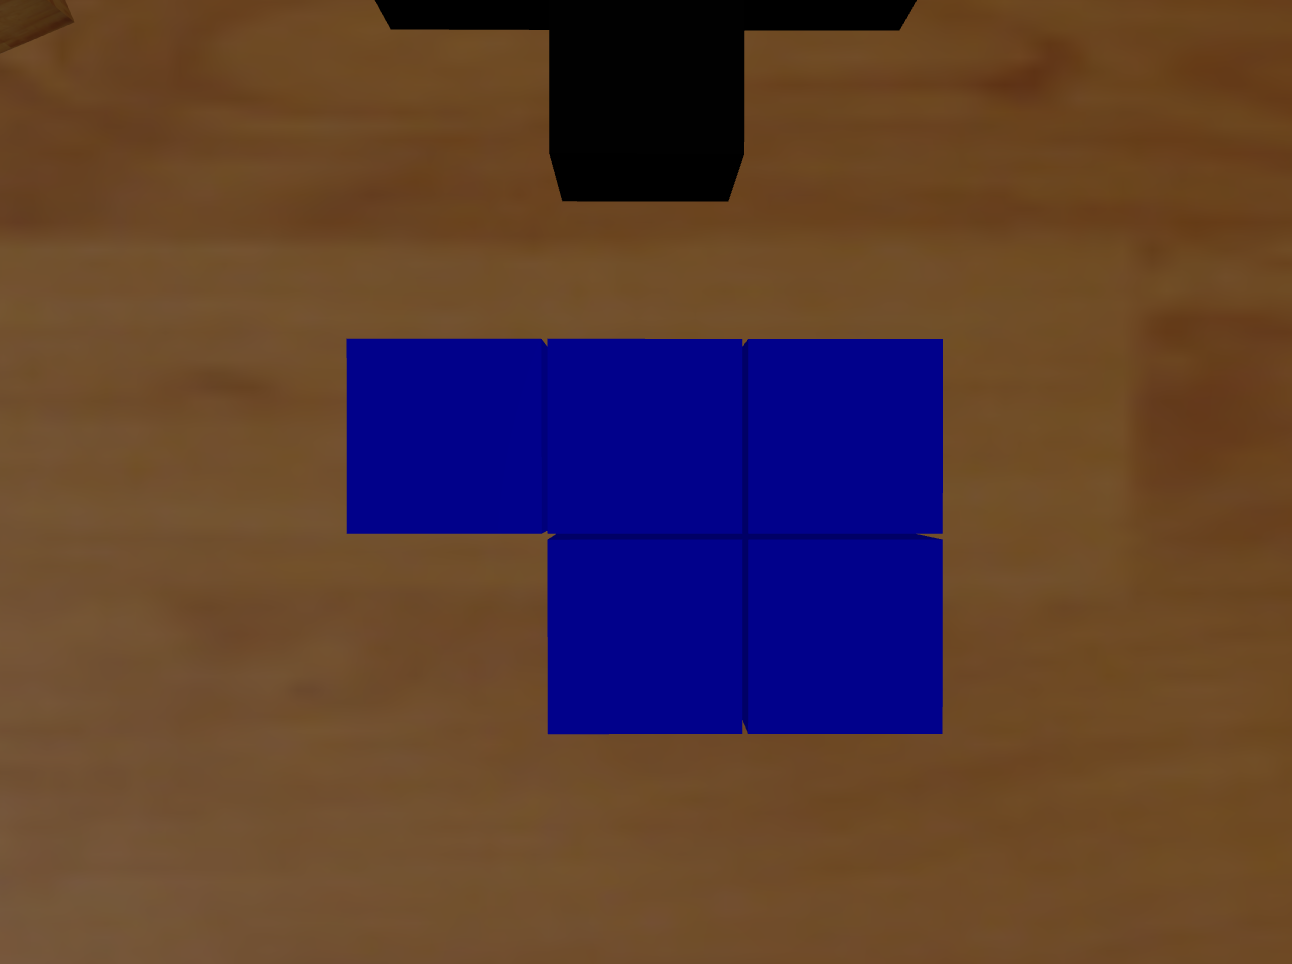
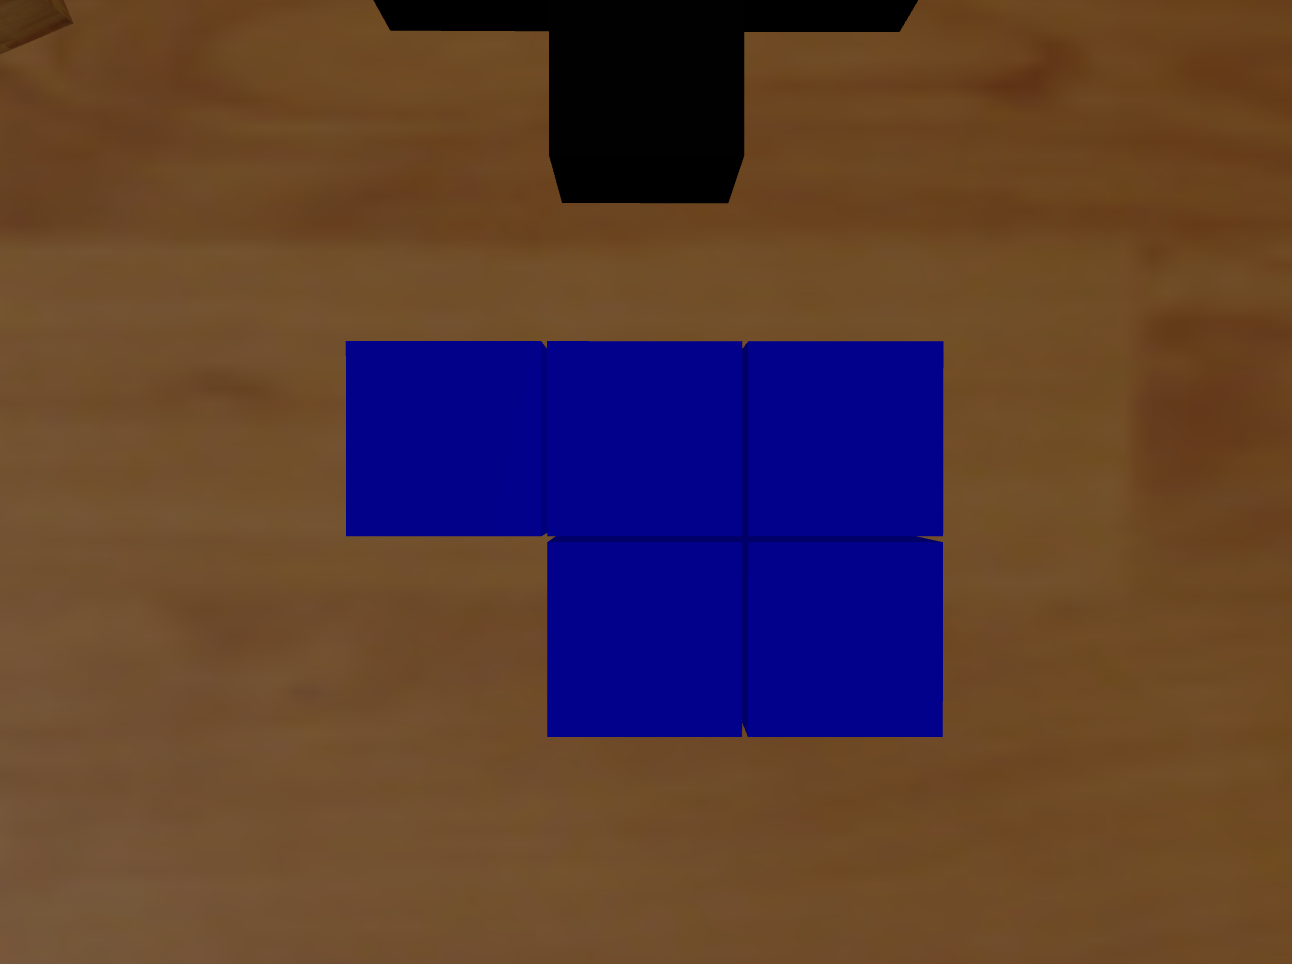
lookAt bug corrected. setGrasp not working

diff --git a/kuka_pentomino/src/ec2_solvers/src/solver.cpp b/kuka_pentomino/src/ec2_solvers/src/solver.cpp
@@ -290,7 +290,6 @@ namespace ec2
 
     void Solver::getBasePosFromPixel(Point2d pixel, Eigen::Vector3d &pos, image_geometry::PinholeCameraModel model){
         double Z = -0.082;
-        cout << "\nPixel: " << pixel << endl;
         // Convert 2d point to 3d ray passing in point P
         Point3d v;
         v = model.projectPixelTo3dRay(pixel);
@@ -305,7 +304,29 @@ namespace ec2
         // cout << "Vector Base: " << VBase.transpose() << "\nCamera pos: " << posCam.transpose() << endl;
         double scalar = (Z-posCam.z())/VBase.z();    
         pos = posCam + scalar*VBase;
-        cout << "3d Point: " << pos.transpose() << endl;
+        cout << "Pixel: " << pixel << " Corresponding 3d Point: " << pos.transpose() << endl;
+    }
+
+    bool Solver::setGrasp(const Eigen::Vector3d& position, double yaw, double velocity, bool blocking){
+        double p = M_PI;
+
+        Eigen::Affine3d pose = Eigen::Translation3d(position) *
+                               Eigen::AngleAxisd(yaw, Eigen::Vector3d::UnitZ()) *
+                               Eigen::AngleAxisd(p, Eigen::Vector3d::UnitY()) *
+                               Eigen::AngleAxisd(0, Eigen::Vector3d::UnitX());
+
+        pose.translation().z() = std::max(0.03, pose.translation().z());
+        
+        Eigen::Vector3d flange_tcp(-0.057, -0.032 + 0.05, 0.074);
+
+        // adjust for the camera
+        pose.translation() += pose.translation() - pose * flange_tcp;
+
+        bool ret = arm_.setTCPPose(pose, velocity, blocking);
+        if (not ret)
+            return false;
+
+        return true;
     }
 
     void Solver::solve()
@@ -328,7 +349,7 @@ namespace ec2
         ros::Duration(0.8).sleep();
         getDataFromPT(color, depth, modelPT, true);   // format BGR
         cvtColor(color, color, CV_BGR2RGB); // Convert to RGB
-        pieceDetect.findPiecesPT(imread("templates/templateRight.png", IMREAD_COLOR), color, piecesCenterRight, "right PT");
+        pieceDetect.findPiecesPT(imread("templates/templateRight.png", IMREAD_COLOR), color, piecesCenterRight, "rightPT");
         for(size_t i = 0; i < piecesCenterRight.size(); i++){
             getBasePosFromPixel(piecesCenterRight[i], tmp, modelPT);
             detectedPiecesPT.push_back(tmp);
@@ -350,7 +371,7 @@ namespace ec2
             ros::Duration(0.8).sleep();        
             getDataFromPT(color, depth, modelPT, true);   // format BGR
             cvtColor(color, color, CV_BGR2RGB); // Convert to RGB
-            pieceDetect.findPiecesPT(imread("templates/templateLeft.png", IMREAD_COLOR), color, piecesCenterLeft, "left PT");
+            pieceDetect.findPiecesPT(imread("templates/templateLeft.png", IMREAD_COLOR), color, piecesCenterLeft, "leftPT");
             for(size_t i = 0; i < piecesCenterLeft.size(); i++){
                 getBasePosFromPixel(piecesCenterLeft[i], tmp, modelPT);
                 detectedPiecesPT.push_back(tmp);
@@ -362,29 +383,41 @@ namespace ec2
         
         ROS_INFO("Getting mid-point for each piece...");
         string name;
+        double yaw = 0;
+        bool ok;
         for(size_t i = 0; i < detectedPiecesPT.size(); i++){
             detectedPiecesPT[i].z() = 0.2;
-            cout << detectedPiecesPT[i].transpose() << endl;
+            cout << "Detected pieces at: " << detectedPiecesPT[i].transpose() << endl;
             // Correct this to define a better angle
-            if(i < 2)
-                lookAt(detectedPiecesPT[i], M_PI, 0.2, true);
-            else
-                lookAt(detectedPiecesPT[i], 0, 0.2, true);
-            // Sleep 1 second
-            ros::Duration(1.0).sleep();
-            getDataFromTCP(color, depth, modelTCP, true);
-            name = "tempImages/top_image_" + to_string(i) + ".png";
-            imshow(name, color);
-            imwrite(name, color);
+            // if(i < 2)
+            //     lookAt(detectedPiecesPT[i], M_PI, 0.2, true);
+            // else
+            yaw = 0;
+            ok = lookAt(detectedPiecesPT[i], yaw, 0.2, true);
+            while(not ok){
+                yaw += M_PI_4;
+                if(yaw >= M_PI*2)   // M_PI*2 = 360º
+                    break;
+                ok = lookAt(detectedPiecesPT[i], yaw, 0.2, true);
+            }
+            // If can reach get the top image, else means its a point unreachable with the arm in this position
+            if(ok){
+                // Sleep 1 second
+                ros::Duration(1.0).sleep();
+                getDataFromTCP(color, depth, modelTCP, true);
+                name = "tempImages/top_image_" + to_string(i) + ".png";
+                imshow(name, color);
+                imwrite(name, color);
 
-            // Pieces detected from TOP VIEW
-            vector<Point2d> piecesCenter;
-            pieceDetect.getPiecesCenter(color, piecesCenter);
-            // Convert each point to the base frame and save it
-            for (size_t i = 0; i < piecesCenter.size(); i++){
-                getBasePosFromPixel(piecesCenter[i], tmp, modelTCP);
-                tmp.z() = 0.07; //0.035
-                posP5.push_back(tmp);
+                // Pieces detected from TOP VIEW
+                vector<Point2d> piecesCenter;
+                pieceDetect.getPiecesCenter(color, piecesCenter);
+                // Convert each point to the base frame and save it
+                for (size_t i = 0; i < piecesCenter.size(); i++){
+                    getBasePosFromPixel(piecesCenter[i], tmp, modelTCP);
+                    tmp.z() = 0.07; //0.035
+                    posP5.push_back(tmp);
+                }
             }
         }
 
@@ -409,40 +442,82 @@ namespace ec2
         vector<tuple<char, double, Eigen::Vector3d>> grabPos;        
         // Send arm to position of each piece and capture it
         for (size_t j = 0; j < posP5.size(); j++){
-            cout << posP5[j].transpose() << endl;
+            cout << "P5 pos: " << posP5[j].transpose() << endl;
             // lookAt rotation is counter clockwise
-            if(j == 0 || j == 1)
-                lookAt(posP5[j], M_PI, 0.2, true);
+            // if(j == 0 || j == 1)
+            //     lookAt(posP5[j], M_PI, 0.2, true);
             // else if(j == 4)
             //     lookAt(posP5[j], -M_PI_2, 0.2, true);
-            else
-                lookAt(posP5[j], 0, 0.2, true);
+            // else
+            yaw = 0;
+            ok = lookAt(posP5[j], yaw, 0.2, true);
+            while(not ok){
+                yaw += M_PI;
+                if(yaw >= M_PI*2)   // M_PI*2 = 360º
+                    break;
+                ok = lookAt(posP5[j], yaw, 0.2, true);
+            }
+            if(ok){
+                ros::Duration(1.0).sleep();
+                getDataFromTCP(color, depth, modelTCP, true);
+                name = "tempImages/Piece"+to_string(j)+".png";
+                cvtColor(color, color, CV_BGR2RGB);
+                imshow(name, color);
+                imwrite(name, color);
 
-            ros::Duration(1.0).sleep();
-            getDataFromTCP(color, depth, modelTCP, true);
-            name = "tempImages/Piece"+to_string(j)+".png";
-            cvtColor(color, color, CV_BGR2RGB);
-            imshow(name, color);
-            imwrite(name, color);
-
-            cout << "Categorize Pieces" << endl;
-            contours_image = pieceDetect.imagePieceToContours(color, output);
-            bool status = pieceDetect.categorizeAndDetect(templates, contours_image, piece, angle , pointPiece);
-            double current_yaw = 0.2;
-            //rotate robot until recognize the piece
-            // while(!status){
-            //     current_yaw = current_yaw + M_PI/5;
-            //     lookAt(posP5[j], 0, current_yaw, true);
-            //     contours_image = pieceDetect.imagePieceToContours(color, output);
-            //     status = pieceDetect.categorizeAndDetect(templates, contours_image, piece, angle , pointPiece);
-            // }
-            cout << j << " RECOGNIZE PIECE  " << piece << " Ang "<< angle << " Point - "<< pointPiece << endl;
-            getBasePosFromPixel(pointPiece, tmp, modelTCP);
-            grabPos.push_back(make_tuple(piece, angle, tmp));
+                cout << "Categorize Pieces" << endl;
+                contours_image = pieceDetect.imagePieceToContours(color, output);
+                bool status = pieceDetect.categorizeAndDetect(templates, contours_image, piece, angle , pointPiece);
+                double current_yaw = 0.2;
+                //rotate robot until recognize the piece
+                // while(!status){
+                //     current_yaw = current_yaw + M_PI/5;
+                //     lookAt(posP5[j], 0, current_yaw, true);
+                //     contours_image = pieceDetect.imagePieceToContours(color, output);
+                //     status = pieceDetect.categorizeAndDetect(templates, contours_image, piece, angle , pointPiece);
+                // }
+                cout << j << " RECOGNIZE PIECE  " << piece << " Ang "<< angle << " Point - "<< pointPiece << endl;
+                angle = 360-angle;          // convert to counter clockwise
+                angle = angle*(M_PI/180);   // convert to radians
+                angle += yaw;
+                getBasePosFromPixel(pointPiece, tmp, modelTCP);
+                grabPos.push_back(make_tuple(piece, angle, tmp));
+            }
         }
-        // Show all top images
-        waitKey(0);
-        destroyAllWindows();
+
+
+        ROS_INFO("Grab pieces and solve puzzle...");
+        for(size_t i = 0; i < grabPos.size(); i++){
+            cout << "Piece: " << get<0>(grabPos[i]) << " at angle: " << get<1>(grabPos[i]) << " and pos: " << get<2>(grabPos[i]).transpose() << endl;
+            gripper_.setPosition(0.02, 0.1);
+            tmp = get<2>(grabPos[i]);
+            // tmp.z() = -0.085;    // table is at z=-0.115 in arm frame
+            setGrasp(tmp, get<1>(grabPos[i]), 0.2);
+
+            cout << "Grab POS: " << tmp.transpose() << " P5 POS: " << posP5[i].transpose() << endl;
+            
+            // gripper_.setPosition(0.06, 0.1);
+            // // tmp.z() = 0.05;
+            // setGrasp(tmp, get<1>(grabPos[i]), 0.2);
+            
+            ros::Duration(0.5).sleep();
+            // gripper_.setPosition(0.02,0.1);
+        }
+
+        // arm_.moveRelativeTCP((Affine3d)Translation3d(0.0,0.0,-0.4), 0.4);
+        // arm_.moveRelativeTCP((Affine3d)AngleAxisd(-45.0/180.0*M_PI, Eigen::Vector3d(0.0,0.0,1.0)), 0.4);
+        // arm_.moveRelativeTCP((Affine3d)Translation3d(0.6,0.0,-0.6), 0.4);
+        // arm_.moveRelativeTCP((Affine3d)AngleAxisd(M_PI, Eigen::Vector3d(1.0,0.0,0.0)), 0.4);
+        // arm_.moveRelativeTCP((Affine3d)Translation3d(0.02,0.025,0.5), 0.4);
+        // gripper_.setPosition(0.02,0.1);
+        // arm_.moveRelativeTCP((Affine3d)Translation3d(0.0,0.0,0.06), 0.4);
+        // gripper_.setPosition(0.06,0.1);
+        // arm_.moveRelativeTCP((Affine3d)Translation3d(0.0,0.0,-0.06), 0.4);
+        // gripper_.setPosition(0.02,0.1);
+        
+        // Show all images
+        // waitKey(0);
+        // destroyAllWindows();
     }
 
     void Solver::removeClosePoints(vector<Eigen::Vector3d> &posP5){

diff --git a/kuka_pentomino/src/ec2_solvers/src/pieceDetection.cpp b/kuka_pentomino/src/ec2_solvers/src/pieceDetection.cpp
@@ -110,8 +110,8 @@ namespace ec2{
         }
         imshow(name, output);
         imwrite("tempImages/"+name+".png", output);
-        waitKey(0);
-        destroyAllWindows();
+        // waitKey(0);
+        // destroyAllWindows();
     }
 
     void pieceDetection::getPiecesCenter(Mat frame, vector<Point2d> &piecesCenter){
@@ -157,8 +157,8 @@ namespace ec2{
         // imshow("CANNY", thresholdImage);
         // imshow("MORPHOLOGY", frame);
         imshow("GET PIECES CENTER", output);
-        waitKey(0);
-        destroyAllWindows();
+        // waitKey(0);
+        // destroyAllWindows();
     }
 
     void pieceDetection::findPlayframe(Mat image, Point2d &innerCorner){
@@ -212,8 +212,8 @@ namespace ec2{
         }
         imshow("PLAY FRAME", output);
         imwrite("tempImages/PLAYFRAME.png", output);
-        waitKey(0);
-        destroyAllWindows();
+        // waitKey(0);
+        // destroyAllWindows();
     }
 
     vector<Point> pieceDetection::imagePieceToContours(Mat image, Mat &output){
@@ -562,9 +562,9 @@ namespace ec2{
 
     Point pieceDetection::rotatePointOrigin(Point p, double ang){
         Point p_rotate;
-        double m_PI = 3.14159265359; 
-        p_rotate.x = p.x * cos(ang * (m_PI/ 180)) - p.y * sin(ang* (m_PI/ 180));
-        p_rotate.y = p.y * cos(ang * (m_PI/ 180)) + p.x * sin(ang* (m_PI/ 180));
+        // double m_PI = 3.14159265359; 
+        p_rotate.x = p.x * cos(ang * (M_PI/ 180)) - p.y * sin(ang* (M_PI/ 180));
+        p_rotate.y = p.y * cos(ang * (M_PI/ 180)) + p.x * sin(ang* (M_PI/ 180));
         return p_rotate;
     }
 

diff --git a/kuka_pentomino/src/ec2_interface/src/arm_interface.cpp b/kuka_pentomino/src/ec2_interface/src/arm_interface.cpp
@@ -18,6 +18,8 @@
 
 #include <angles/angles.h>
 
+#include <iostream>
+
 namespace ec2 {
 
 using namespace euroc_ros_msgs;
@@ -168,7 +170,7 @@ bool ArmInterface::moveRelativeTCPImpedance(const Eigen::Affine3d& pose,
 bool ArmInterface::setTCPPose(const Eigen::Affine3d& pose, double velocity, bool blocking)
 {
     /* Calculate the inverse kinematics. */
-
+    
     // this is so uncool
     euroc_ros_msgs::JointStateConstPtr js_msg = ros::topic::waitForMessage<euroc_ros_msgs::JointState>("/miiwa/joint_state",
                                                 ros::Duration(5));
@@ -200,7 +202,11 @@ bool ArmInterface::setTCPPose(const Eigen::Affine3d& pose, double velocity, bool
         ROS_ERROR("ArmInterface: %s", gik.response.error_message.c_str());
         return false;
     }
-
+    
+    if(gik.response.joint_position.values.size() <= 0){
+        ROS_ERROR("ArmInterface: Joint Position Values Vector size: %d", gik.response.joint_position.values.size());
+        return false;
+    }
     /* Now move the arm */
     // adjust the gripper offset directly in the joint
     gik.response.joint_position.values[6] -= M_PI*0.25;

diff --git a/kuka_pentomino/src/ec2_solvers/include/ec2_solvers/solver.h b/kuka_pentomino/src/ec2_solvers/include/ec2_solvers/solver.h
@@ -97,6 +97,7 @@ protected:
     bool getPTModel(image_geometry::PinholeCameraModel &model, bool now);
     void getBasePosFromPixel(cv::Point2d pixel, Eigen::Vector3d &pos, image_geometry::PinholeCameraModel model);
     void removeClosePoints(std::vector<Eigen::Vector3d> &posP5);
+    bool setGrasp(const Eigen::Vector3d& position, double yaw, double velocity, bool blocking = true);
 
     void info(const char* fmt, ...);
     void warn(const char* fmt, ...);
